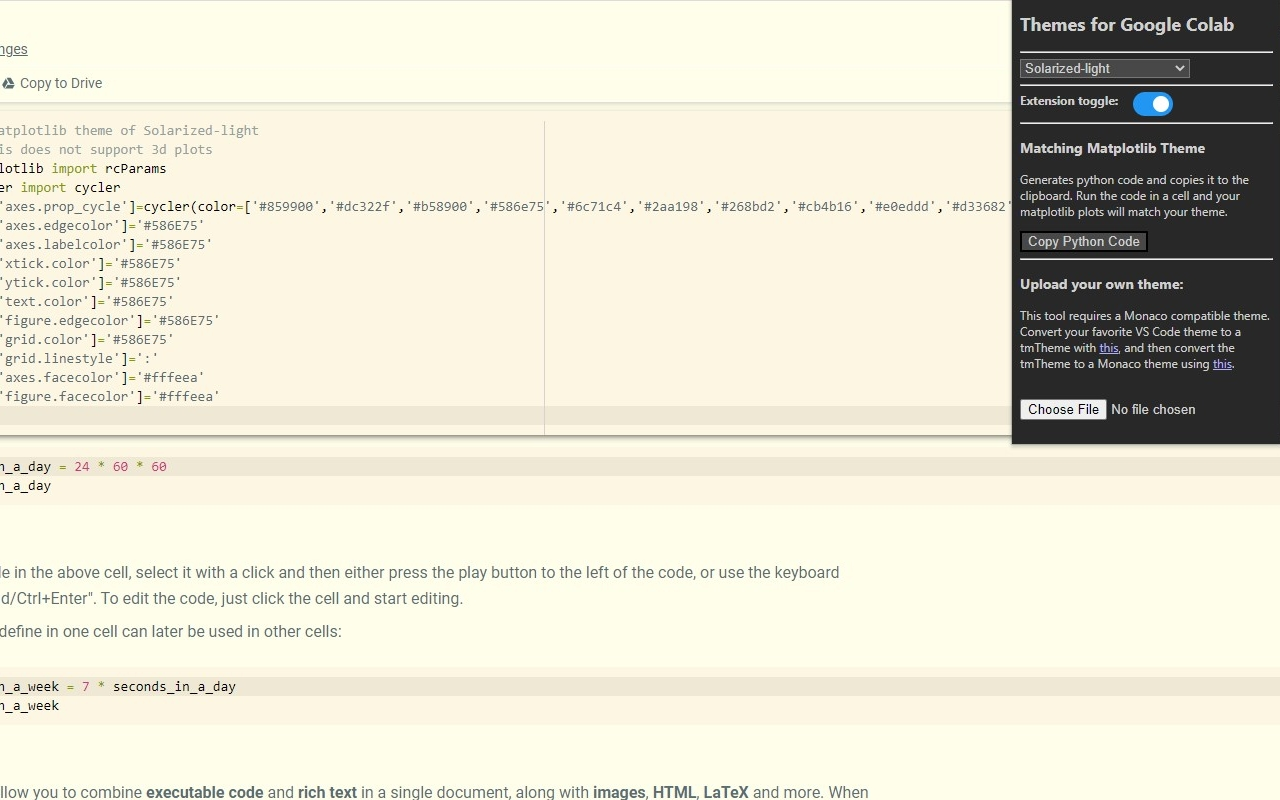
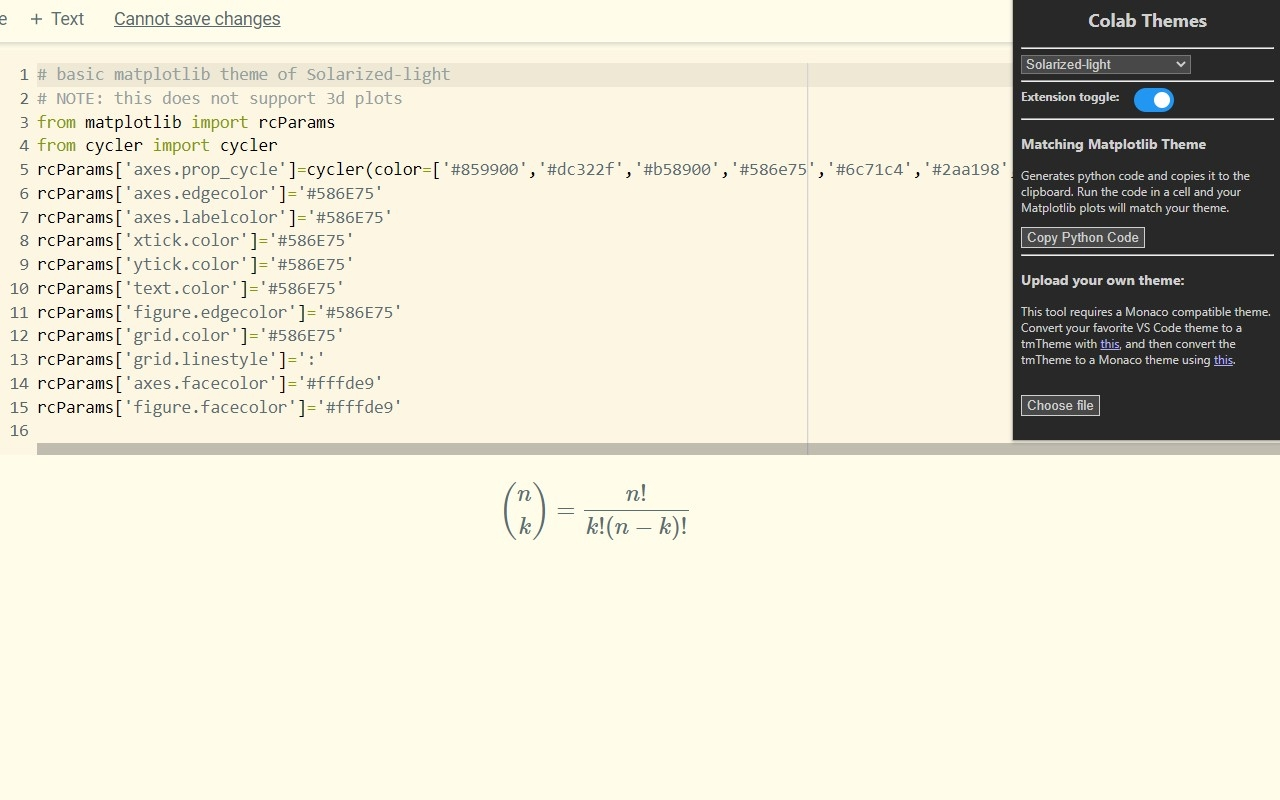
style changes

diff --git a/popup.js b/popup.js
@@ -47,7 +47,7 @@ function getCssTheme(theme_json) {
   let fg_extra_1 = scale(fg, 1.05);
   let bg_light = scale(bg, 1.15);
   if (hex_is_light(bg)) {
-    bg_light = scale(bg,1.035);
+    bg_light = scale(bg,1.03);
     bg_extra_1 = scale(bg, 1.05);
     bg_extra_2 = scale(bg, 1.1);
     bg_less_1 = scale(bg, 0.952);
@@ -342,7 +342,7 @@ function copyMatplot(theme_json, filename) {
   for (let x of unfiltered) {colors.push("'#" +  x + "'")};
 
   let rc = 'rcParams[';
-  let code = '# basic matplotlib theme of ' + filename + '\n#NOTE: this does not support 3d plots\nfrom matplotlib import rcParams\nfrom cycler import cycler\n';
+  let code = '# basic matplotlib theme of ' + filename + '\n# NOTE: this does not support 3d plots\nfrom matplotlib import rcParams\nfrom cycler import cycler\n';
   code += rc + "'axes.prop_cycle']=cycler(color=["+colors.toString()+"])\n";
   // text items
   let fgs = ['axes.edgecolor','axes.labelcolor','xtick.color','ytick.color','text.color','figure.edgecolor','grid.color'];
@@ -354,7 +354,7 @@ function copyMatplot(theme_json, filename) {
   let bg = theme_json.colors['editor.background'];
   let bg_light = scale(bg, 1.15);
   if (hex_is_light(bg)) {
-    bg_light = scale(bg,1.035);
+    bg_light = scale(bg,1.03);
   }
   code += rc + "'axes.facecolor']=" + "'" + bg_light +"'\n";
   // plot outside

diff --git a/popup.html b/popup.html
@@ -9,11 +9,11 @@
 
 </head>
 <body>
-    <h2> Colab Themes </h2>
+    <center><h2> Colab Themes </h2></center>
     <hr>
     <form>
         <select id="colab_themes_choice">
-            <option value="" selected disabled hidden>Choose a theme!</option>
+            <option value=""  class="button_style">Choose a theme!</option>
         </select>
         <hr>
         <label for="on_off"> <b>Extension toggle:</b></label>
@@ -24,7 +24,7 @@
         <hr>
         <h3>Matching Matplotlib Theme</h3>
         <p> Generates python code and copies it to the clipboard. Run the code in a cell and your Matplotlib plots will match your theme.</p>
-        <button id="matplotlib">Copy Python Code</button>
+        <button id="matplotlib" class="button_style">Copy Python Code</button>
         <hr>
         <h3>Upload your own theme:</h3>
         <p>

diff --git a/popup.css b/popup.css
@@ -1,12 +1,44 @@
-button {
+.button_style {
+  display: inline-block;
   background: #484848;
   color: #D0D0D0;
+  border: 1px solid #D0D0D0;
+  padding: 2px 5px;
+  outline: none;
+  white-space: nowrap;
+  -webkit-user-select: none;
+  font-size: 10pt;
+}
+.button_style:hover {
+  background: #585858;
+  cursor: pointer;
 }
 html {
   background: #282828;
   color: #D0D0D0;
 }
-
+#upload::-webkit-file-upload-button {
+  visibility: hidden;
+}
+#upload::before {
+  content: 'Choose file';
+  display: inline-block;
+  background: #484848;
+  color: #D0D0D0;
+  border: 1px solid #D0D0D0;
+  padding: 2px 5px;
+  outline: none;
+  white-space: nowrap;
+  -webkit-user-select: none;
+  font-size: 10pt;
+}
+#upload:hover::before {
+  background: #585858;
+  cursor: pointer;
+}
+#upload {
+  color: transparent;
+}
 hr {
   color: 	#D0D0D0;
 }
